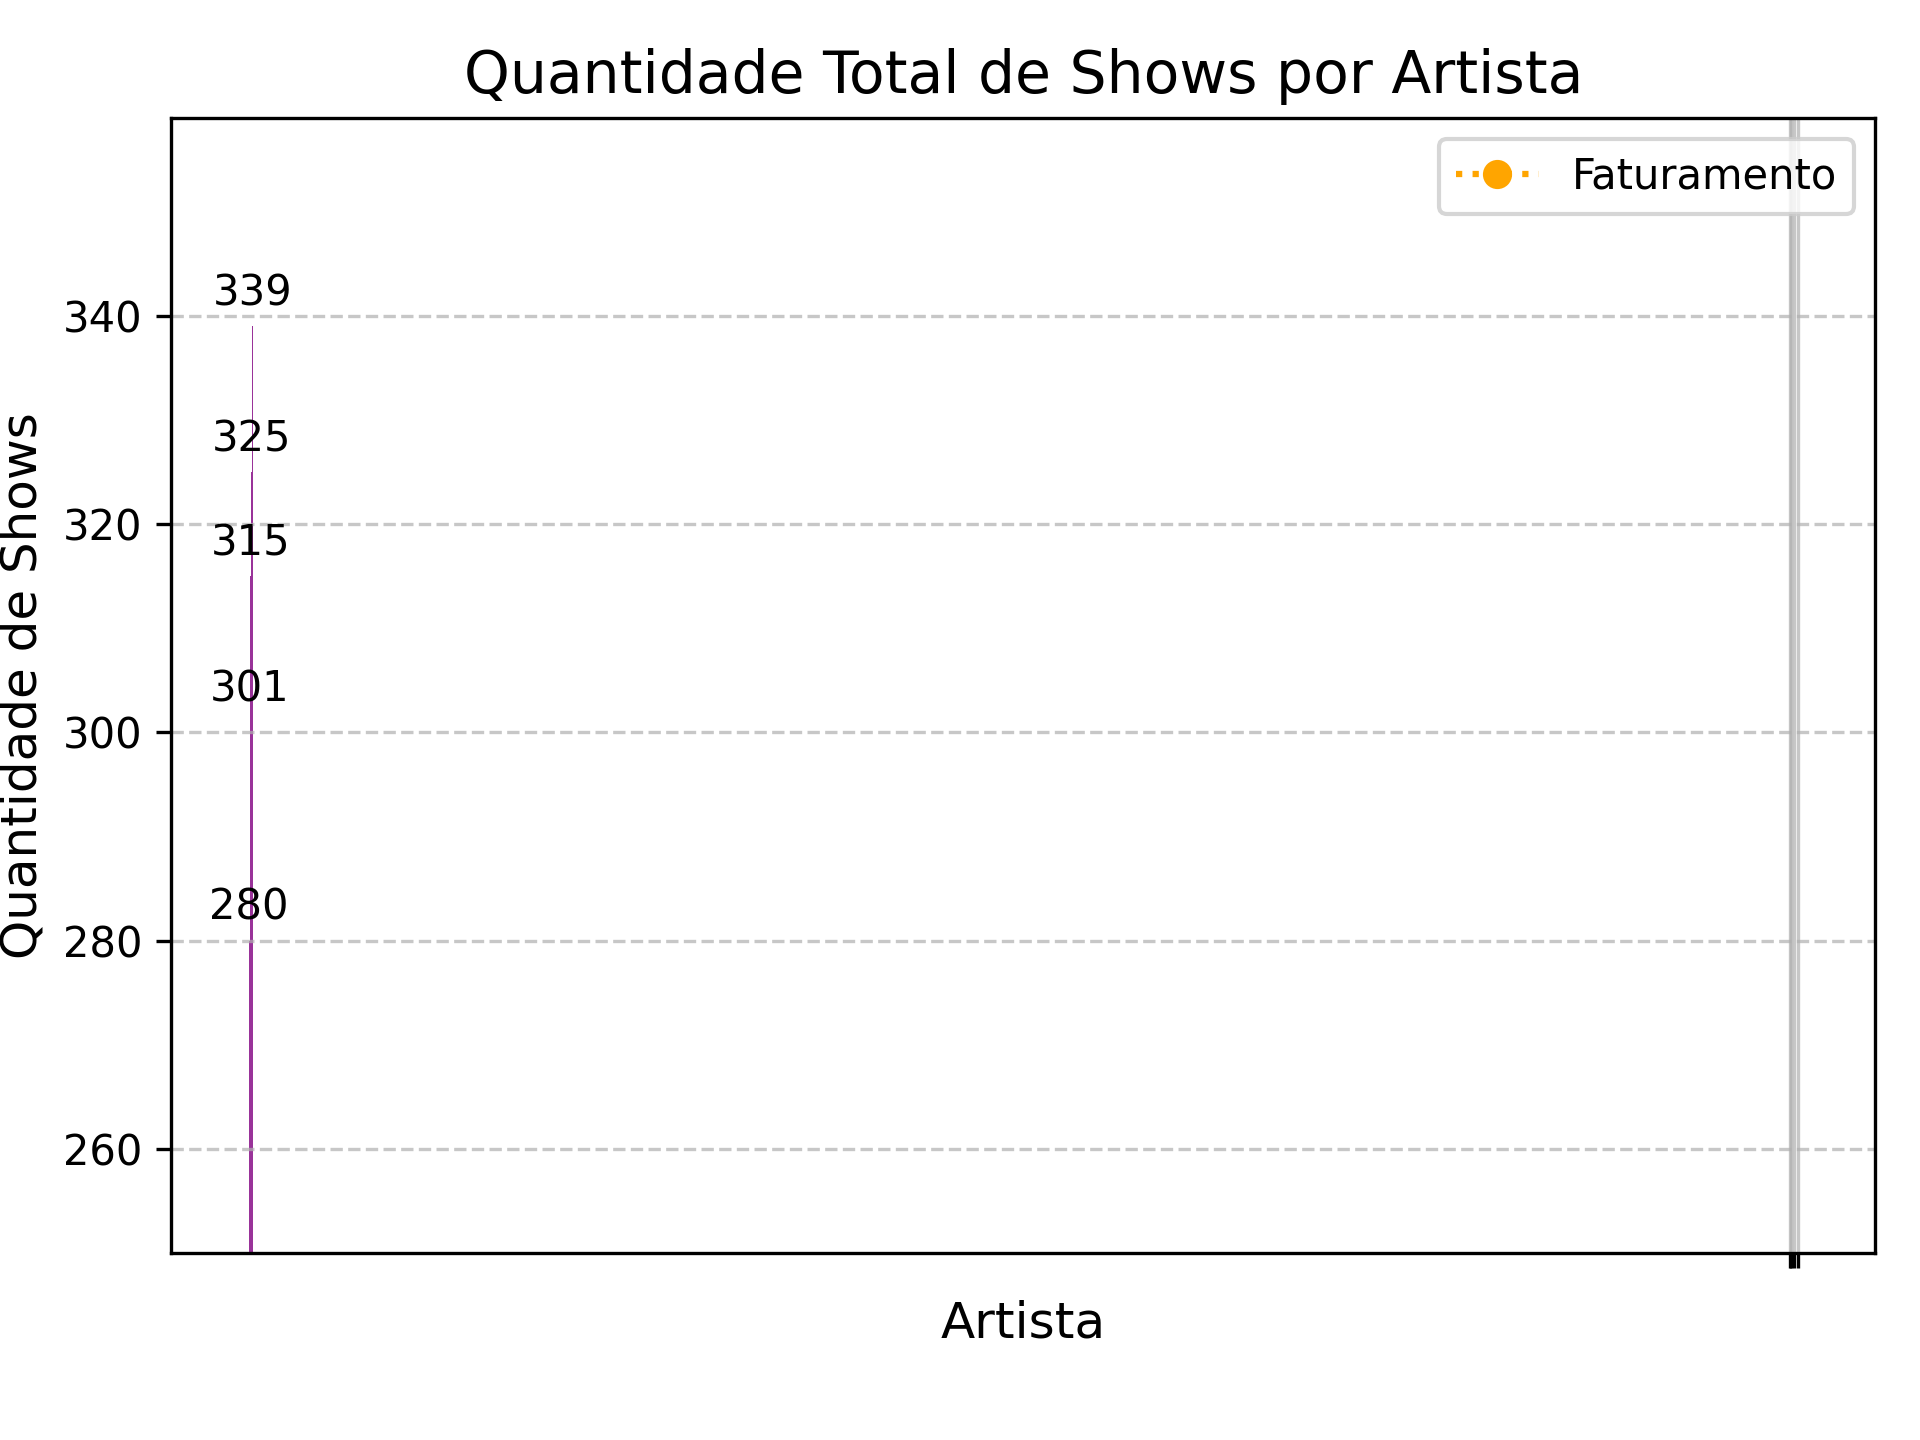
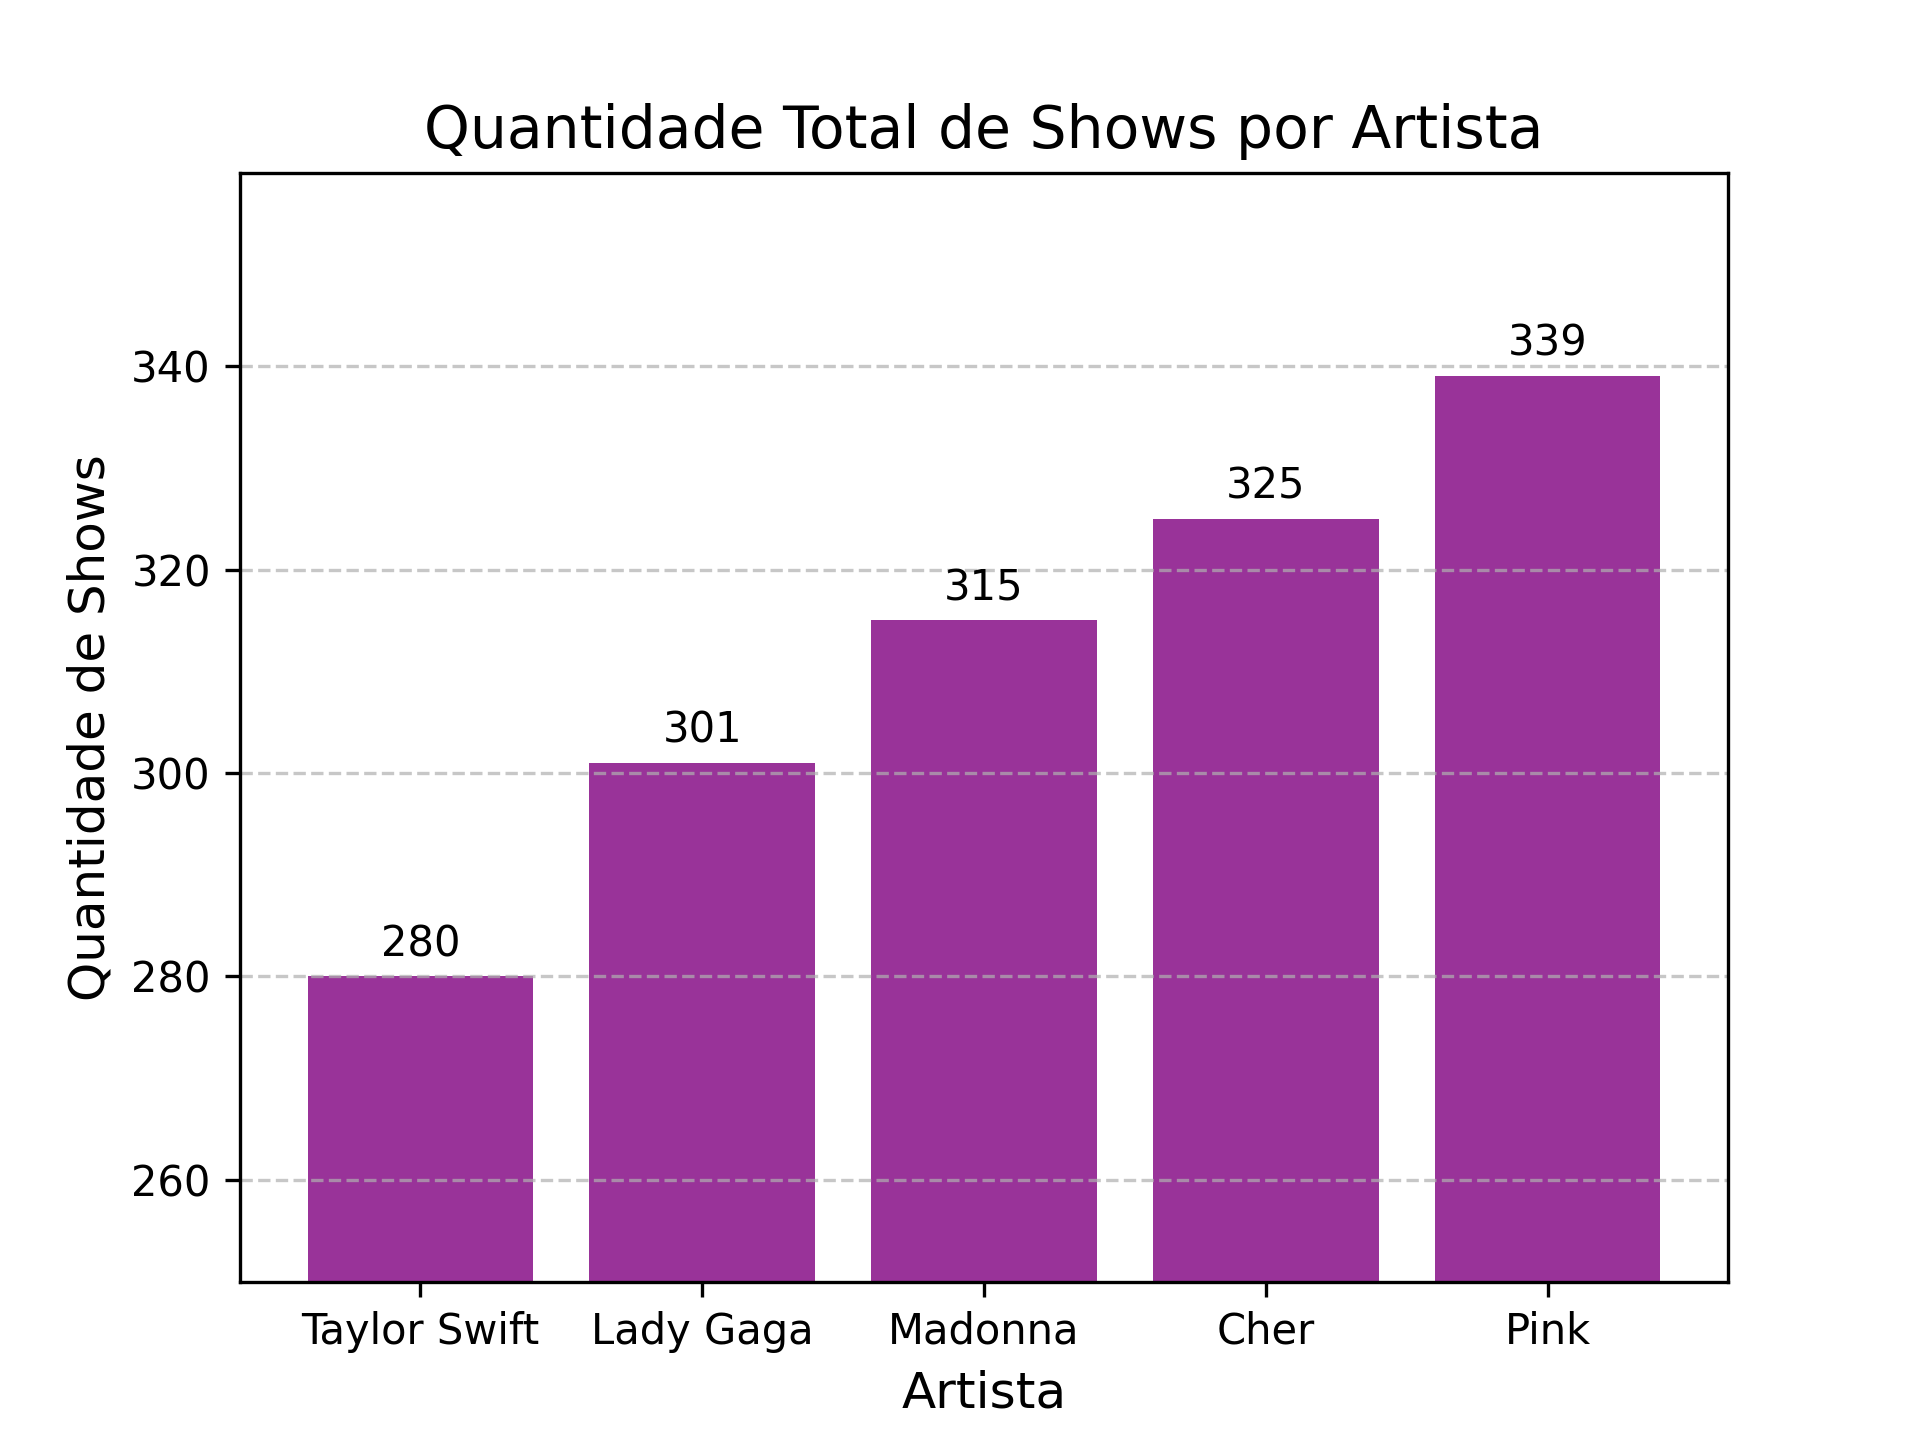
Changes in the challenge

diff --git a/Sprint 3/Desafio/job-II/job.py b/Sprint 3/Desafio/job-II/job.py
@@ -4,6 +4,7 @@ import matplotlib.pyplot as plt
 PATH_RESPOSTA = "/share/respostas.txt"
 
 def main():
+    
     df = pd.read_csv("/share/csv_limpo.csv")
     
     q1(df.copy())
@@ -119,6 +120,7 @@ def q4(df:pd.DataFrame):
     # Salva gráfico como png.
     plt.tight_layout()
     plt.savefig("/share/Q4.png", dpi=300)
+    plt.close("all")
 
 def q5(df:pd.DataFrame):
     # Filtra os 5 artistas com mais shows
@@ -129,7 +131,7 @@ def q5(df:pd.DataFrame):
     shows = df["Shows"]
 
     plt.bar(artist[::-1], shows[::-1], color="purple", alpha=0.8)
-
+    
     # Personaliza o gráfico
     plt.title("Quantidade Total de Shows por Artista", fontsize=14)
     plt.xlabel("Artista", fontsize=12)

diff --git a/Sprint 3/Desafio/README.md b/Sprint 3/Desafio/README.md
@@ -198,7 +198,7 @@ Após limpar o dataframe, ele é tranformado em um csv chamado **"csv_limpo.csv"
  
 A imagem do dockerfile é a "python:3.11-slim", que já vem com o python, o código faz uso das bibliotecas pandas e regex, por isso existe um arquivo de "requirements.txt" listando as bibliotecas e as suas respectivas versões para instalação. Com as bibliotecas instaladas, é copiado para imagem o script python e base de dados csv, e em seguida o comando para começar o processamento:
 
-[📂 Dockerfile](./etl-I/dockerfile)
+[📂 Dockerfile](./etl-I/Dockerfile)
 
 **Comando para o build:**
 
@@ -224,7 +224,7 @@ OBS: No compose uso um volume externo onde compartilhava o arquivo "csv_limpo.cs
 
 O dockerfile do job e do etl são muito parecidos, uma das únicas coisas que muda, é o WORKDIR, e o arquivo de requirements.txt, que adiciona a biblioteca matplotlib.
 
-[📂 Dockerfile](./job-II/dockerfile)
+[📂 Dockerfile](./job-II/Dockerfile)
 
 **Comando para o build:**
 
